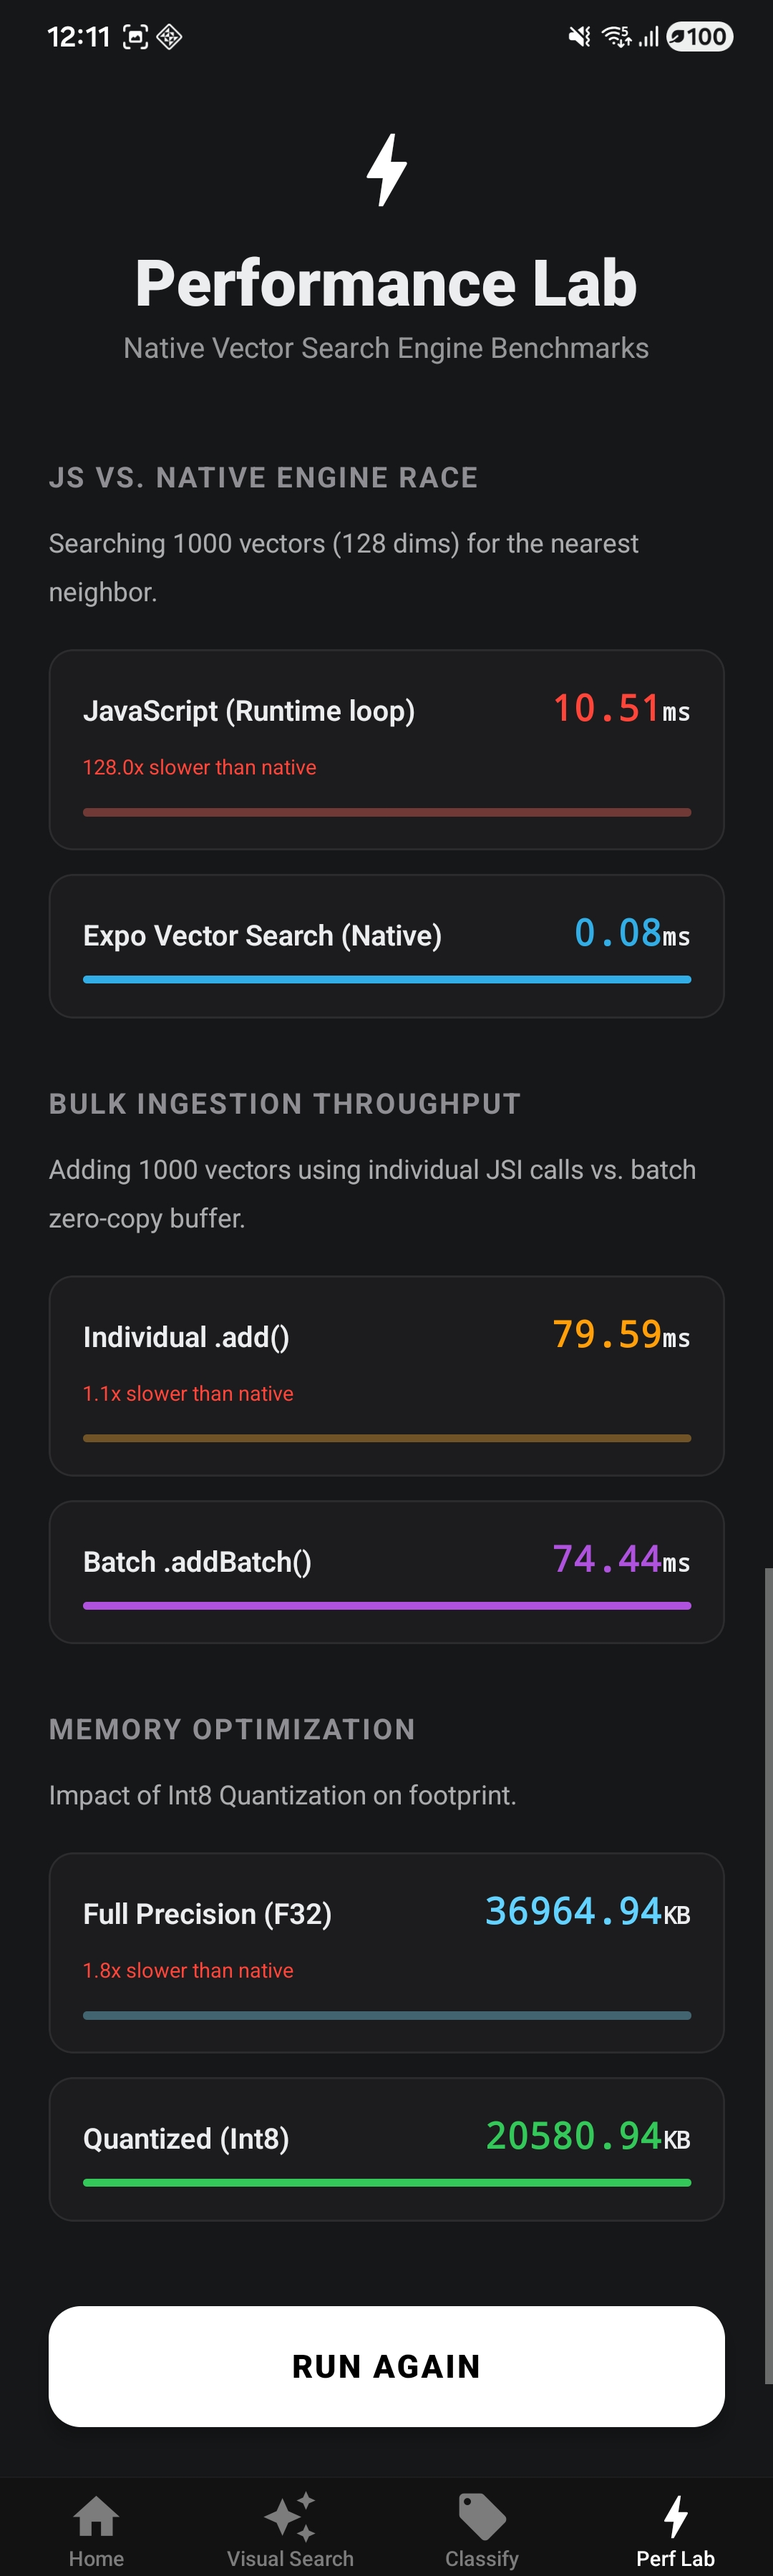
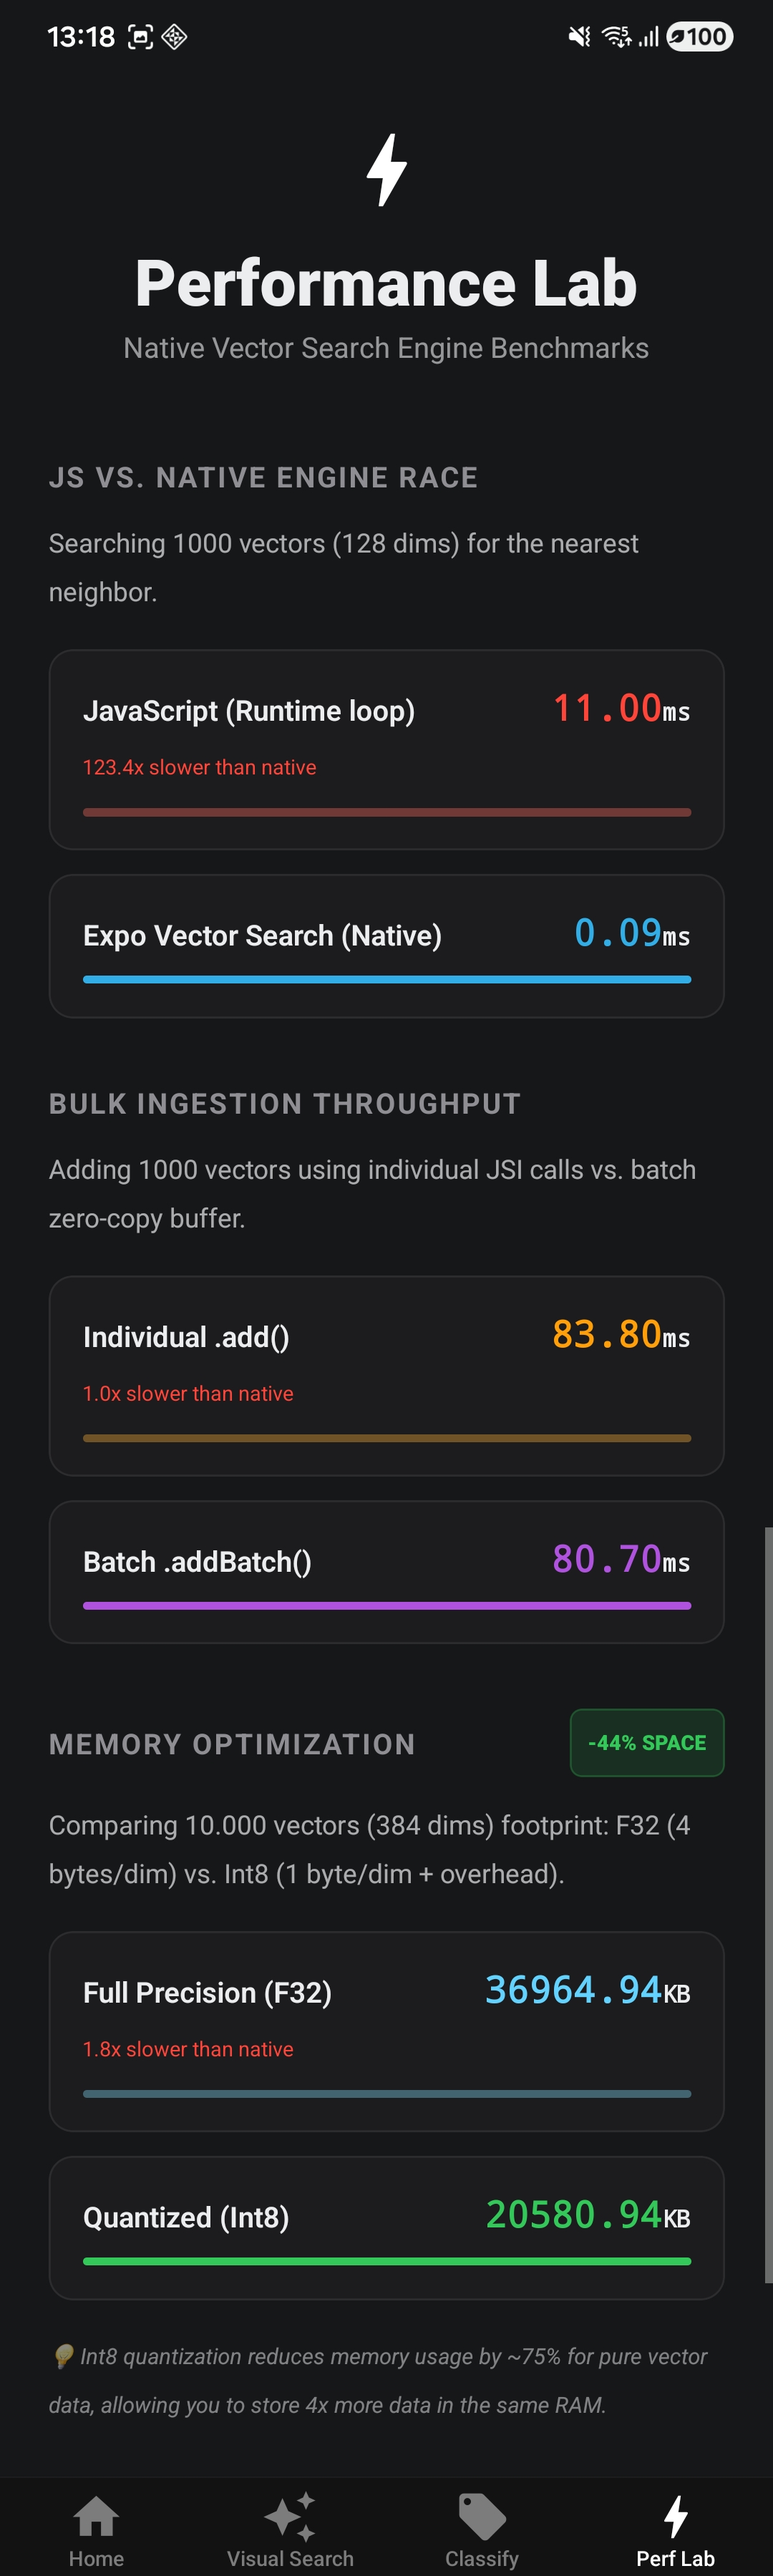
feat: enhance home screen with better analogies and polish memory diagnostics

diff --git a/app/(tabs)/index.tsx b/app/(tabs)/index.tsx
@@ -18,48 +18,59 @@ export default function HomeScreen() {
       <ThemedView style={styles.titleContainer}>
         <ThemedText type="title">Expo Vector Search</ThemedText>
       </ThemedView>
+
       <ThemedView style={styles.stepContainer}>
-        <ThemedText type="subtitle">What is it?</ThemedText>
+        <ThemedText type="subtitle">What is Vector Search?</ThemedText>
         <ThemedText>
-          It's an ultra-fast vector search engine for React Native (C++ JSI). It allows you to store and search data based on <ThemedText type="defaultSemiBold">meaning</ThemedText>, not just keywords.
+          Traditional databases search for <ThemedText type="defaultSemiBold">exact matches</ThemedText>. Vector search engines search for <ThemedText type="defaultSemiBold">semantic meaning</ThemedText>.
+          By converting data (images, text, audio) into mathematical coordinates (vectors), we can find items that are "close" to each other in concept, not just in spelling.
         </ThemedText>
       </ThemedView>
 
       <ThemedView style={styles.stepContainer}>
-        <ThemedText type="subtitle">🔎 Simple Analogy</ThemedText>
-        <ThemedText>
-          Imagine a library.
-        </ThemedText>
-        <ThemedText>
-          <ThemedText type="defaultSemiBold">Standard Search (SQL):</ThemedText> You ask for a book with "Cat" in the title. The librarian only gives you books that have the exact word "Cat" on the cover.
-        </ThemedText>
-        <ThemedText>
-          <ThemedText type="defaultSemiBold">Vector Search (This Demo):</ThemedText> You ask for "something about fluffy animals". The librarian understands the concept and brings you books about Cats, Dogs, and Rabbits, even if the word "fluffy" isn't in the title.
-        </ThemedText>
+        <ThemedText type="subtitle">🔎 Intuitive Analogies</ThemedText>
+
+        <ThemedView style={styles.analogyBox}>
+          <ThemedText type="defaultSemiBold">📚 The Librarian</ThemedText>
+          <ThemedText style={styles.analogyText}>
+            Instead of searching for a book with "Sun" in the title, you ask for "something about hot celestial bodies." The librarian understands the <ThemedText type="defaultSemiBold">concept</ThemedText> and finds books about Stars, Galaxies, and Solar Energy.
+          </ThemedText>
+        </ThemedView>
+
+        <ThemedView style={styles.analogyBox}>
+          <ThemedText type="defaultSemiBold">🎵 The Music Curator (Spotify)</ThemedText>
+          <ThemedText style={styles.analogyText}>
+            You like a song with a "heavy bass and melancholy vocals." Vector search finds other songs with a similar "vibe" even if they are from different genres or have different instruments.
+          </ThemedText>
+        </ThemedView>
+
+        <ThemedView style={styles.analogyBox}>
+          <ThemedText type="defaultSemiBold">🛍 The Personal Shopper</ThemedText>
+          <ThemedText style={styles.analogyText}>
+            You take a photo of a red dress with a specific floral pattern. The system finds "mathematically similar" clothes in the inventory instantly, without needing a human to tag them.
+          </ThemedText>
+        </ThemedView>
       </ThemedView>
 
       <ThemedView style={styles.stepContainer}>
-        <ThemedText type="subtitle">🏠 Discover the Power</ThemedText>
+        <ThemedText type="subtitle">🚀 Real-World Examples</ThemedText>
 
         <ThemedText>
-          <ThemedText type="defaultSemiBold">✨ Visual Search Tab:</ThemedText>
-          {'\n'}Experience the "magic" of finding products by visual similarity. No keywords, just proximity in the vector space.
+          <ThemedText type="defaultSemiBold">📸 Intelligent Gallery:</ThemedText> Find all your "sunset at the beach" photos without any manual tagging.
         </ThemedText>
 
         <ThemedText>
-          <ThemedText type="defaultSemiBold">⚡ Performance Lab Tab:</ThemedText>
-          {'\n'}See the benchmarks. Witness the raw speed of C++ JSI vs. traditional JavaScript loops.
+          <ThemedText type="defaultSemiBold">🛡 Content Moderation:</ThemedText> Detect toxic messages or harmful images by their intent, even if they use clever misspellings.
         </ThemedText>
 
         <ThemedText>
-          <ThemedText type="defaultSemiBold">🏷 Classify Tab:</ThemedText>
-          {'\n'}See how vector search can categorize text by intent and meaning instantly.
+          <ThemedText type="defaultSemiBold">🤖 Local RAG:</ThemedText> Provide private, offline AI knowledge bases for your users by searching through your own documentation locally.
         </ThemedText>
       </ThemedView>
 
       <ThemedView style={styles.stepContainer}>
         <ThemedText style={{ fontSize: 12, opacity: 0.6, marginTop: 10 }}>
-          Technology: USearch (C++) & JSI. Runs 100% on your device, offline, processing 10k items in less than 1 millisecond.
+          Powered by USearch (C++ JSI). 100% On-Device. Processing 10k items in &lt;1ms.
         </ThemedText>
       </ThemedView>
     </ParallaxScrollView>
@@ -75,6 +86,19 @@ const styles = StyleSheet.create({
   stepContainer: {
     gap: 8,
     marginBottom: 8,
+  },
+  analogyBox: {
+    backgroundColor: 'rgba(0,0,0,0.03)',
+    padding: 12,
+    borderRadius: 12,
+    borderLeftWidth: 4,
+    borderLeftColor: '#A1CEDC',
+    marginBottom: 4,
+  },
+  analogyText: {
+    fontSize: 14,
+    marginTop: 4,
+    opacity: 0.8,
   },
   reactLogo: {
     height: 178,

diff --git a/app/(tabs)/test-diagnostics.tsx b/app/(tabs)/test-diagnostics.tsx
@@ -29,6 +29,9 @@ export default function PerformanceLabScreen() {
     const DIMENSIONS = 128;
     const COUNT = 1000; // Smaller count for responsive demo but enough to show difference
 
+    const MEM_COUNT = 10000;
+    const MEM_DIMS = 384; // Higher dims = more vector dominance in memory report
+
     const runPerformanceRace = async () => {
         setStatus('running');
         Haptics.impactAsync(Haptics.ImpactFeedbackStyle.Medium);
@@ -89,8 +92,6 @@ export default function PerformanceLabScreen() {
         batchIndex.delete();
 
         // 3. Memory Optimization
-        const MEM_COUNT = 10000;
-        const MEM_DIMS = 384; // Higher dims = more vector dominance in memory report
         const f32Idx = new VectorIndex(MEM_DIMS, { quantization: 'f32' });
         const memVectors = new Float32Array(MEM_DIMS);
         for (let i = 0; i < MEM_COUNT; i++) f32Idx.add(i, memVectors);
@@ -167,12 +168,27 @@ export default function PerformanceLabScreen() {
 
                 {/* Section 3: Memory Mastery */}
                 <View style={styles.section}>
-                    <ThemedText type="subtitle" style={styles.sectionTitle}>MEMORY OPTIMIZATION</ThemedText>
+                    <View style={styles.sectionHeaderRow}>
+                        <ThemedText type="subtitle" style={styles.sectionTitle}>MEMORY OPTIMIZATION</ThemedText>
+                        {f32Memory && i8Memory && (
+                            <View style={styles.savingsBadge}>
+                                <ThemedText style={styles.savingsText}>
+                                    -{(((f32Memory - i8Memory) / f32Memory) * 100).toFixed(0)}% SPACE
+                                </ThemedText>
+                            </View>
+                        )}
+                    </View>
                     <ThemedText style={styles.description}>
-                        Impact of Int8 Quantization on footprint.
+                        Comparing {MEM_COUNT.toLocaleString()} vectors ({MEM_DIMS} dims) footprint: F32 (4 bytes/dim) vs. Int8 (1 byte/dim + overhead).
                     </ThemedText>
                     {renderMetric("Full Precision (F32)", f32Memory ? f32Memory / 1024 : null, "KB", "#64D2FF", i8Memory ? i8Memory / 1024 : null)}
                     {renderMetric("Quantized (Int8)", i8Memory ? i8Memory / 1024 : null, "KB", "#34C759")}
+
+                    {i8Memory && (
+                        <ThemedText style={styles.hintText}>
+                            💡 Int8 quantization reduces memory usage by ~75% for pure vector data, allowing you to store 4x more data in the same RAM.
+                        </ThemedText>
+                    )}
                 </View>
 
                 <TouchableOpacity
@@ -208,8 +224,33 @@ const styles = StyleSheet.create({
     subtitle: { fontSize: 14, opacity: 0.6, marginTop: 4 },
 
     section: { gap: 12 },
+    sectionHeaderRow: {
+        flexDirection: 'row',
+        justifyContent: 'space-between',
+        alignItems: 'center',
+    },
     sectionTitle: { fontSize: 14, fontWeight: 'bold', color: '#8E8E93', letterSpacing: 1 },
     description: { fontSize: 13, opacity: 0.7, marginBottom: 4 },
+
+    savingsBadge: {
+        backgroundColor: '#34C75922',
+        paddingHorizontal: 8,
+        paddingVertical: 4,
+        borderRadius: 6,
+        borderWidth: 1,
+        borderColor: '#34C75944',
+    },
+    savingsText: {
+        color: '#34C759',
+        fontSize: 10,
+        fontWeight: '900',
+    },
+    hintText: {
+        fontSize: 11,
+        opacity: 0.5,
+        fontStyle: 'italic',
+        marginTop: 4,
+    },
 
     metricCard: {
         backgroundColor: '#1C1C1E',
